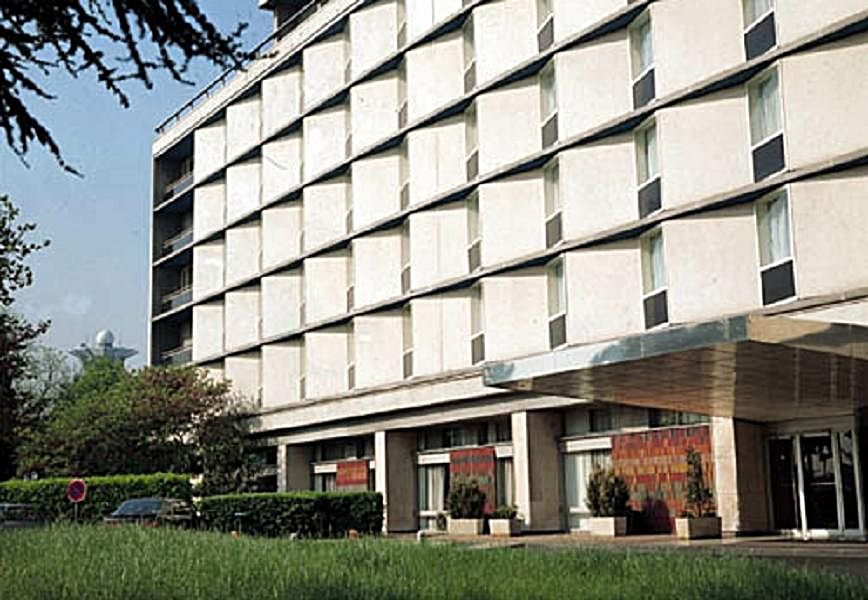
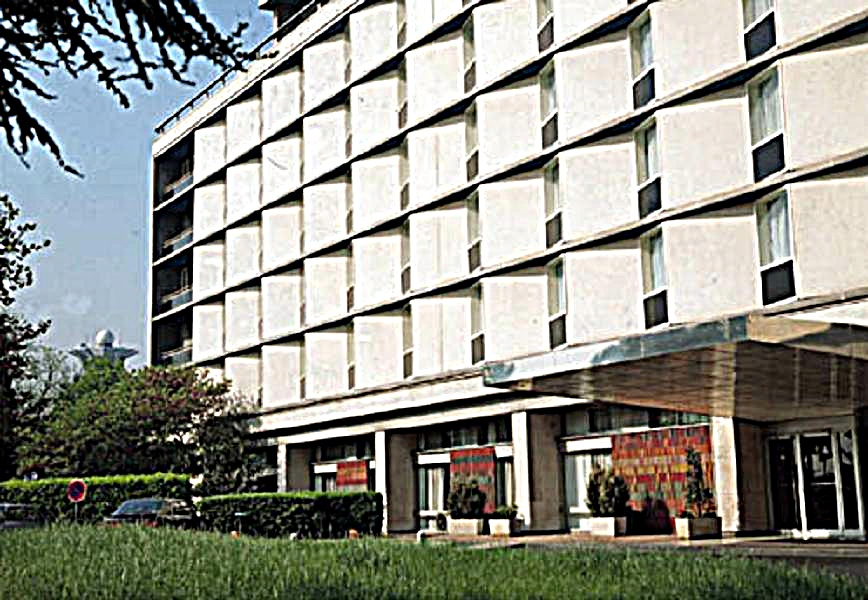
Make Unsharp Masking more noticeable in Exp 23

Changed region(s): [[0.0, 0.0, 1.0, 0.93], [0.3422, 0.9, 0.4044, 0.93], [0.0, 0.84, 0.0311, 0.87]]

diff --git a/run_and_save2.py b/run_and_save2.py
@@ -165,8 +165,8 @@ sharp_pos = cv2.filter2D(gray, -1, kernel_pos)
 cv2.imwrite(get_out(22), sharp_pos)
 
 # 23
-gaussian_blur = cv2.GaussianBlur(img, (9,9), 10.0)
-unsharp_img = cv2.addWeighted(img, 1.5, gaussian_blur, -0.5, 0)
+gaussian_blur = cv2.GaussianBlur(img, (15,15), 20.0)
+unsharp_img = cv2.addWeighted(img, 2.5, gaussian_blur, -1.5, 0)
 cv2.imwrite(get_out(23), unsharp_img)
 
 # 24
